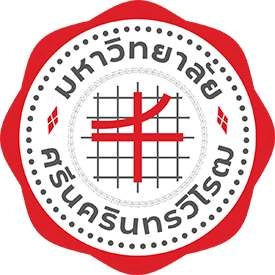
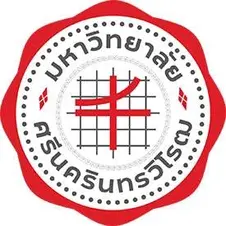
resizing all the images and gtm errors

diff --git a/components/GoogleTagManager.tsx b/components/GoogleTagManager.tsx
@@ -34,10 +34,11 @@ export default function GoogleTagManager({ gtmId }: GoogleTagManagerProps) {
         strategy="afterInteractive"
         dangerouslySetInnerHTML={{
           __html: `
-            window.dataLayer = window.dataLayer || [];
-            function gtag(){dataLayer.push(arguments);}
-            gtag('js', new Date());
-            gtag('config', '${gtmId}');
+            (function(w,d,s,l,i){w[l]=w[l]||[];w[l].push({'gtm.start':
+            new Date().getTime(),event:'gtm.js'});var f=d.getElementsByTagName(s)[0],
+            j=d.createElement(s),dl=l!='dataLayer'?'&l='+l:'';j.async=true;j.src=
+            'https://www.googletagmanager.com/gtm.js?id='+i+dl;f.parentNode.insertBefore(j,f);
+            })(window,document,'script','dataLayer','${gtmId}');
           `,
         }}
       />
